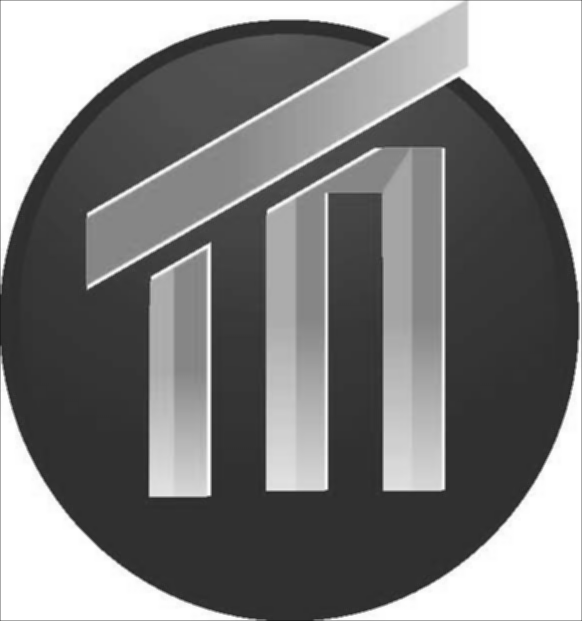
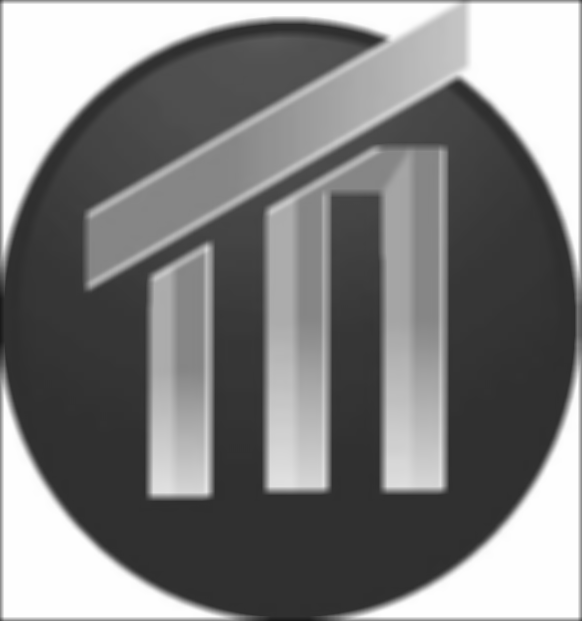
p1

diff --git a/convolucion/Conv2D.java b/convolucion/Conv2D.java
@@ -117,7 +117,7 @@ public class Conv2D {
 
         int[][] pixels_gray = util.Image.toGray(pixels);
 
-        float[][] kernel = createBoxKernel(3);
+        float[][] kernel = createBoxKernel(9);
         float[][] pixels_normalized = Matrix.normalize(Matrix.toFloat(pixels_gray), 0, 255);
 
         int numThreads = 8;/*Runtime.getRuntime().availableProcessors();*/
